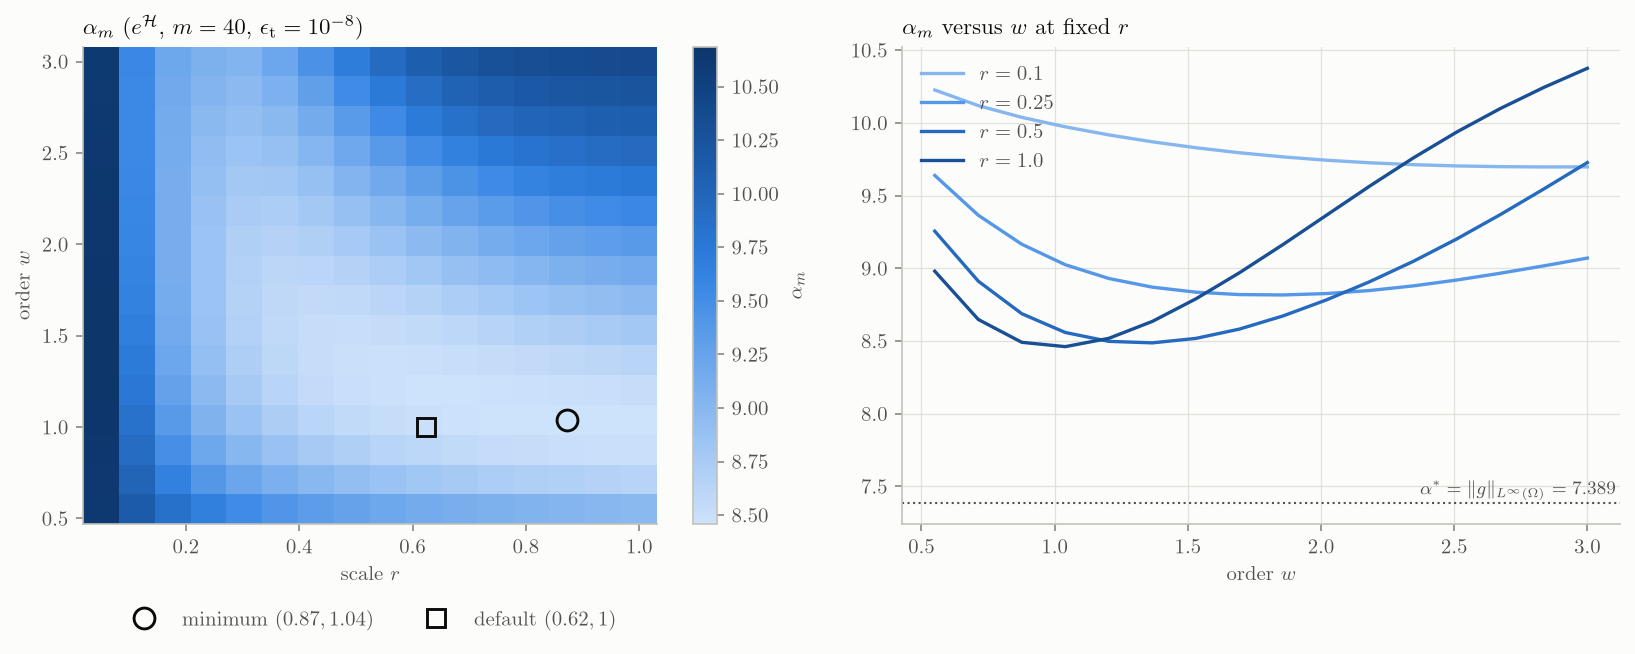
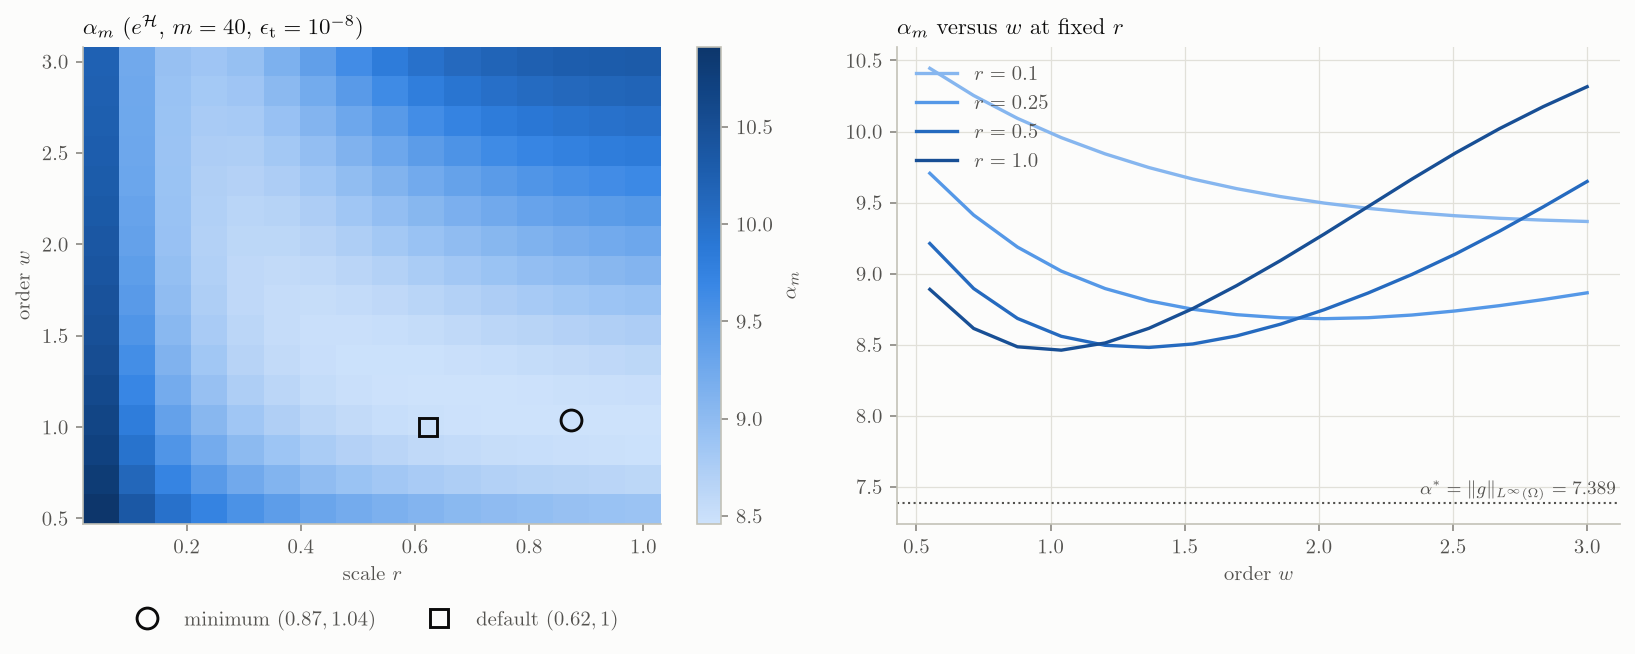
Use the full Sobolev norm in the regulariser (#22)
The H_r^w weight is now P_w(r|k|) = sum_{j=0}^{w} (r|k|)^(2j), which
penalises every derivative up to order w, in place of 1 + (r|k|)^(2w).
Fractional w uses the closed form (1 - z^(2(w+1))) / (1 - z^2), which
agrees with the sum for integer w.  log P_w is evaluated through expm1,
so it is accurate near z = 1 and does not overflow, and the square-root
weight is exp(log P_w / 2).

P_1(z) = 1 + z^2, so the default w = 1 is unchanged, and so are the
regression references.  Plot 03, which sweeps w, is regenerated.

diff --git a/tests/test_unit.py b/tests/test_unit.py
@@ -4,6 +4,8 @@ Most of these never run the solver; the linear-solver test checks one
 internal step against an independent reference.
 """
 
+import math
+
 import numpy as np
 import pytest
 
@@ -293,6 +295,47 @@ class TestDefaultSobolevR:
 # ---------------------------------------------------------------------------
 # Linear solver
 # ---------------------------------------------------------------------------
+
+
+class TestSobolevWeight:
+    @pytest.mark.parametrize("w", [1, 2, 3, 5])
+    def test_integer_order_is_the_finite_sum(self, w):
+        from felcu._linalg import _log_sobolev_weight
+
+        z = np.array([0.0, 0.1, 0.5, 0.9, 1.0, 1.1, 2.0, 7.0])
+        exact = sum(z ** (2 * j) for j in range(w + 1))
+        np.testing.assert_allclose(np.exp(_log_sobolev_weight(z, w)), exact, rtol=1e-13)
+
+    @pytest.mark.parametrize("w", [0.6, 0.75, 1.5, 2.25])
+    def test_fractional_order_is_the_geometric_formula(self, w):
+        from felcu._linalg import _log_sobolev_weight
+
+        z = np.array([0.1, 0.5, 0.9, 1.1, 2.0, 7.0])
+        exact = (1 - z ** (2 * (w + 1))) / (1 - z**2)
+        np.testing.assert_allclose(np.exp(_log_sobolev_weight(z, w)), exact, rtol=1e-13)
+        np.testing.assert_allclose(np.exp(_log_sobolev_weight(np.array([0.0, 1.0]), w)), [1.0, w + 1.0])
+
+    @pytest.mark.parametrize("w", [0.75, 2.0])
+    def test_continuous_through_one(self, w):
+        from felcu._linalg import _log_sobolev_weight
+
+        z = 1.0 + np.array([-1e-9, 0.0, 1e-9])
+        values = _log_sobolev_weight(z, w)
+        np.testing.assert_allclose(values, np.log(w + 1.0), rtol=1e-8)
+
+    def test_no_overflow_at_high_frequency(self):
+        from felcu._linalg import _log_sobolev_weight
+
+        value = _log_sobolev_weight(np.array([1e200]), 3.0)[0]
+        assert value == pytest.approx(6 * math.log(1e200), rel=1e-15)
+
+    def test_penalty_entries(self):
+        from felcu._linalg import _penalty
+
+        lam, r, w, m = 0.3, 0.5, 2.0, 4
+        k = np.arange(1, m + 1)
+        p = lam * np.sqrt((1 + (r * k) ** 2 + (r * k) ** 4) / 2)
+        np.testing.assert_allclose(_penalty(m, "full", lam, r, w), np.concatenate([[lam], p, p]), rtol=1e-14)
 
 
 class TestLinearSolver:

diff --git a/felcu/_linalg.py b/felcu/_linalg.py
@@ -25,15 +25,39 @@ def _gauss_interval(a: float, b: float, n: int) -> tuple[np.ndarray, np.ndarray]
     return np.concatenate(xs), np.concatenate(ws)
 
 
+def _log_sobolev_weight(z: np.ndarray, w: float) -> np.ndarray:
+    """log P_w(z), the log of the H^w Sobolev weight at ``z = r|k| >= 0``.
+
+    ``P_w(z) = sum_{j=0}^{w} z^(2j)`` for integer w, and in general
+    ``(1 - z^(2(w+1))) / (1 - z^2)``, which agrees with the sum for integer w,
+    with ``P_w(0) = 1`` and ``P_w(1) = w + 1``.  With ``q = 2 ln z`` it is
+    evaluated as ``log(expm1((w+1) q) / expm1(q))`` for ``z < 1`` and
+    ``w q + log(expm1(-(w+1) q) / expm1(-q))`` for ``z > 1``, which stays
+    accurate near ``z = 1`` and does not overflow for large ``z``.
+    """
+    z = np.asarray(z, dtype=float)
+    out = np.zeros(z.shape)
+    out[z == 1.0] = math.log(w + 1.0)
+    below = (z > 0.0) & (z < 1.0)
+    q = 2.0 * np.log(z[below])
+    out[below] = np.log(np.expm1((w + 1.0) * q) / np.expm1(q))
+    above = z > 1.0
+    q = 2.0 * np.log(z[above])
+    out[above] = w * q + np.log(np.expm1(-(w + 1.0) * q) / np.expm1(-q))
+    return out
+
+
 def _penalty(m: int, basis: str, lam: float, r: float, w: float) -> np.ndarray:
     """Diagonal D of the H_r^w penalty, so that ||D c||^2 = lam^2 ||h||_{H_r^w}^2 / (2 pi).
 
-    In the complex basis the norm is 2 pi sum_k (1 + (r|k|)^(2w)) |c_k|^2.  With
-    c_0 = a0 and |c_k|^2 + |c_-k|^2 = (|a_k|^2 + |b_k|^2) / 2, each real sine or
-    cosine coefficient gets weight (1 + (r k)^(2w)) / 2 and the constant weight 1.
+    In the complex basis the norm is 2 pi sum_k P_w(r|k|) |c_k|^2 (see
+    :func:`_log_sobolev_weight`).  With c_0 = a0 and
+    |c_k|^2 + |c_-k|^2 = (|a_k|^2 + |b_k|^2) / 2, which holds for complex
+    coefficients too, each sine or cosine coefficient gets weight
+    P_w(r k) / 2 and the constant weight P_w(0) = 1.
     """
     k = np.arange(1, m + 1, dtype=float)
-    p = lam * np.sqrt(0.5 * (1.0 + (r * k) ** (2.0 * w)))
+    p = lam * np.exp(0.5 * (_log_sobolev_weight(r * k, w) - math.log(2.0)))
     return _assemble(basis, [lam], p, p)
 
 

diff --git a/felcu/solve.py b/felcu/solve.py
@@ -251,8 +251,10 @@ def solve_fe_coefficients(
         used.
     sobolev_w:
         Order *w* of the H_r^w regulariser, which weights the k-th Fourier
-        mode by ``1 + (r|k|)^(2w)``.  Must exceed ``0.5``; the paper's
-        bounds cover ``0.5 < w <= 1``.  Defaults to ``1``.
+        mode by ``P_w(r|k|) = sum_{j=0}^{w} (r|k|)^(2j)``, i.e. penalises
+        every derivative up to order *w*; for fractional *w*,
+        ``P_w(z) = (1 - z^(2(w+1))) / (1 - z^2)``.  Must exceed ``0.5``;
+        the paper's bounds cover ``0.5 < w <= 1``.  Defaults to ``1``.
     sobolev_r:
         Scale *r* of the H_r^w regulariser, with ``0 < r <= 1``.  Chosen by
         :func:`~felcu.default_sobolev_r` when omitted.

diff --git a/felcu/spectral.py b/felcu/spectral.py
@@ -328,7 +328,8 @@ def default_sobolev_r(
 ) -> float:
     """Return the default scale r of the H_r^w regulariser for the given problem.
 
-    The regulariser weights the k-th Fourier mode by ``1 + (r|k|)^(2w)``, so
+    The regulariser weights the k-th Fourier mode by
+    ``P_w(r|k|) = sum_{j=0}^{w} (r|k|)^(2j)``, so
     *r* should match the shortest length scale the fitted function g has
     to resolve.  The defaults follow the scale-adapted choices of
     Brearley, Howarth and Adcock (Sec. VI):

diff --git a/docs/guide/method.md b/docs/guide/method.md
@@ -74,22 +74,39 @@ using the analytic derivatives of both \(g\) and the Fourier modes.  The
 
 ### The Sobolev penalty
 
-The regulariser is the paper's weighted fractional Sobolev norm,
+The regulariser is the weighted Sobolev norm
 
 \[
-\|h\|^2_{H^w_r(\mathbb T)} = 2\pi \sum_{k \in \mathbb Z} \bigl(1 + (r|k|)^{2w}\bigr) |\hat h_k|^2 ,
-\qquad 0 < r \le 1,\quad w > \tfrac12 .
+\|h\|^2_{H^w_r(\mathbb T)} = 2\pi \sum_{k \in \mathbb Z} P_w(r|k|)\, |\hat h_k|^2 ,
+\qquad
+P_w(z) = \sum_{j=0}^{w} z^{2j},
+\qquad 0 < r \le 1,\quad w > \tfrac12 ,
 \]
 
-In the augmented least-squares system this is the diagonal
-\(\sqrt{\gamma}\, W_{r,w}\), with
-\(W_{r,w} = \sqrt{2\pi}\operatorname{diag}\bigl(\sqrt{1 + (r|k|)^{2w}}\bigr)\).
-`felcu` works with the real coefficients, for which
-\(|c_k|^2 + |c_{-k}|^2 = (|a_k|^2 + |b_k|^2)/2\), so each sine and cosine
-coefficient is penalised by
+so for integer \(w\) it is
+\(\sum_{j=0}^{w} r^{2j} \|h^{(j)}\|^2_{L^2(\mathbb T)}\), every derivative up
+to order \(w\).  For fractional \(w\) the weight is the same geometric sum
+in closed form,
 
 \[
-p_k = \lambda \sqrt{\tfrac12\bigl(1 + (r k)^{2w}\bigr)},
+P_w(z) = \frac{1 - z^{2(w+1)}}{1 - z^2}, \qquad P_w(0) = 1,\quad P_w(1) = w + 1 .
+\]
+
+`felcu` evaluates \(\log P_w\) with \(q = 2\ln z\) as
+\(\log[\operatorname{expm1}((w+1)q)/\operatorname{expm1}(q)]\) for \(z < 1\)
+and \(wq + \log[\operatorname{expm1}(-(w+1)q)/\operatorname{expm1}(-q)]\) for
+\(z > 1\), which is accurate near \(z = 1\) and cannot overflow, and takes
+\(\exp(\tfrac12 \log P_w)\) for the square-root weight.
+
+In the augmented least-squares system the norm is the diagonal
+\(\sqrt{\gamma}\, W_{r,w}\), with
+\(W_{r,w} = \sqrt{2\pi}\operatorname{diag}\bigl(\sqrt{P_w(r|k|)}\bigr)\).
+`felcu` works with the sine and cosine coefficients, for which
+\(|c_k|^2 + |c_{-k}|^2 = (|a_k|^2 + |b_k|^2)/2\), so each of them is
+penalised by
+
+\[
+p_k = \lambda \sqrt{P_w(rk)/2},
 \qquad \lambda = \sqrt{2\pi\gamma},
 \]
 
@@ -100,10 +117,12 @@ the paper's \(\ell^1\)-boundedness lemma turns it into the bound
 subnormalisation.
 
 - \(w\) (`sobolev_w`, default \(1\), must satisfy \(w > 1/2\)) sets how fast
-  the weight grows with frequency.  \(w = 1\) gives
-  \(\|h\|^2_{H^1_r} = \|h\|^2_{L^2} + r^2\|h'\|^2_{L^2}\).  The paper's
-  bounds cover \(1/2 < w \le 1\); smaller \(w\) weakens the derivative
-  penalty at the cost of a larger constant \(C_w\).
+  the weight grows with frequency, like \((r|k|)^{2w}\) at high frequency.
+  \(w = 1\) gives
+  \(\|h\|^2_{H^1_r} = \|h\|^2_{L^2} + r^2\|h'\|^2_{L^2}\), and \(w = 2\)
+  adds \(r^4\|h''\|^2_{L^2}\).  The paper's bounds cover
+  \(1/2 < w \le 1\); smaller \(w\) weakens the derivative penalty at the
+  cost of a larger constant \(C_w\).
 - \(r\) (`sobolev_r`, must satisfy \(0 < r \le 1\)) should match the
   shortest length scale \(g\) has to resolve, so that the derivative
   contribution sits on the same scale as the function itself.  By default

diff --git a/docs/examples.md b/docs/examples.md
@@ -184,7 +184,7 @@ as `result.complex_coefficients`
 ### Effect of the Sobolev regulariser
 
 At fixed \(m\), felcu regularises with the \(H_r^w\) norm, weighting the
-\(k\)-th Fourier mode by \(1 + (r|k|)^{2w}\), and picks the largest
+\(k\)-th Fourier mode by \(P_w(r|k|) = \sum_{j=0}^{w} (r|k|)^{2j}\), and picks the largest
 regularisation weight \(\gamma\) that still meets `target_error`.  Vary
 the order \(w\) and the scale \(r\) and see how `lambda_used`
 (\(= \sqrt{2\pi\gamma}\)) and the subnormalisation \(\alpha_m\) change.
@@ -308,7 +308,7 @@ bound \(\alpha^\ast\) (dotted).  Repeated for three orders \(m\).
 ### Alpha over the Sobolev parameters r and w
 
 The \(H_r^w\) regulariser weights the \(k\)-th Fourier mode by
-\(1 + (r|k|)^{2w}\).  At fixed \(m\) and target, sweep \(0 < r \le 1\) and
+\(P_w(r|k|) = \sum_{j=0}^{w} (r|k|)^{2j}\).  At fixed \(m\) and target, sweep \(0 < r \le 1\) and
 \(w > 1/2\) and plot the resulting subnormalisation \(\alpha_m\), as a
 heatmap and as slices at four values of \(r\), against the lower bound
 \(\alpha^\ast\) (dotted).  Every fit here meets the target, so only

diff --git a/docs/guide/parameters.md b/docs/guide/parameters.md
@@ -71,8 +71,9 @@ The options in this section, and `fit_oversample`, only apply to
 
 `sobolev_w` (default `1`)
 :   Order \(w\) of the \(H_r^w\) regulariser, which weights the \(k\)-th
-    Fourier mode by \(1 + (r|k|)^{2w}\).  Must exceed \(1/2\); need not be
-    an integer.  The paper's bounds cover \(1/2 < w \le 1\).
+    Fourier mode by \(P_w(r|k|) = \sum_{j=0}^{w} (r|k|)^{2j}\) (see
+    [The Sobolev penalty](method.md#the-sobolev-penalty)).  Must exceed
+    \(1/2\); need not be an integer.  The paper's bounds cover \(1/2 < w \le 1\).
 
 `sobolev_r` (default: problem-dependent)
 :   Scale \(r\) of the \(H_r^w\) regulariser, with \(0 < r \le 1\).  When

diff --git a/docs/guide/notation.md b/docs/guide/notation.md
@@ -72,7 +72,7 @@ These apply to `method="sobolev"` only; the explicit methods report them as
 
 | Symbol | Meaning | In `felcu` |
 |---|---|---|
-| \(H^w_r(\mathbb T)\) | weighted fractional Sobolev norm, weight \(1 + (r\lvert k\rvert)^{2w}\) | |
+| \(H^w_r(\mathbb T)\) | weighted Sobolev norm, weight \(P_w(r\lvert k\rvert) = \sum_{j=0}^{w} (r\lvert k\rvert)^{2j}\) | |
 | \(0 < r \le 1\) | Sobolev scale | `sobolev_r`, `result.sobolev_r` |
 | \(w > 1/2\) | Sobolev order | `sobolev_w`, `result.sobolev_w` |
 | \(\gamma > 0\) | regularisation weight | `lambdas`, `result.lambda_used` hold \(\sqrt{2\pi\gamma}\) |
